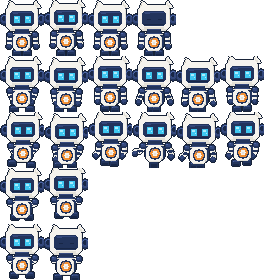
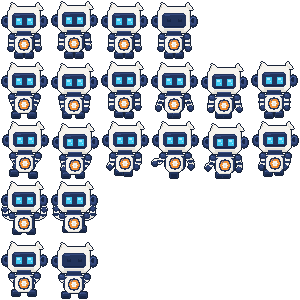
Corregir los errores del arte de los frames
Los frames salían con el dibujo recortado por el borde de la celda: los aros
de las orejas quedaban cortados a los lados y la suela de los pies por abajo
(el arte medía los 44x56 de la celda justos, sin sitio para el contorno).

Arte:

* celda de 50x60 con el dibujo compuesto en su espacio de 44x56 y colocado con
  2 px de margen, así el contorno tiene sitio y ninguna pose se sale;
* contorno de un solo píxel: el pie delantero y el brazo del perfil ya venían
  contorneados y el contorno global les añadía un segundo anillo;
* el pestañeo pinta un párpado oscuro visible (antes borraba el ojo dejando una
  línea del mismo azul que el visor, parecía un visor vacío, y el brillo del
  ojo se quedaba suelto);
* la vista de espaldas ya no recibe párpados: no tiene ojos;
* poses dentro del lienzo: el salto levanta los brazos doblados por fuera de la
  cabeza (antes se estiraban de lado y las manos salían del frame) y sólo
  separa el cuerpo 1 px, y correr/caer recogen los brazos;
* el perfil no aplasta el ángulo del brazo (escalarlo lo dejaba horizontal), lo
  limita manteniendo la dirección.

Herramientas y datos:

* tools/check-frames.mjs: valida las 60 poses (recortes, piezas sueltas,
  contorno incompleto o doble) y que el tamaño de celda coincida con
  js/robot-sheet.js;
* hojas, referencia, plantilla y js/robot-sheet.js regenerados a 50x60;
* el smoke test lee el tamaño de celda del generador en vez de fijarlo a mano;
[…]

Changed region(s): [[0.0, 0.0, 1.0, 1.0]]

diff --git a/js/robot-sheet.js b/js/robot-sheet.js
@@ -4,5 +4,5 @@
   if (typeof module === "object" && module.exports) module.exports = api;
   root.ROBOT_SHEET = api;
 })(typeof globalThis !== "undefined" ? globalThis : this, function () {
[2 lines of base64/hex data omitted]
 });

diff --git a/index.html b/index.html
@@ -116,8 +116,8 @@
         </label>
 
         <div class="grid2">
-          <label>Ancho de frame <input type="number" id="cfg-fw" value="16" min="4" max="256"></label>
-          <label>Alto de frame <input type="number" id="cfg-fh" value="24" min="4" max="256"></label>
+          <label>Ancho de frame <input type="number" id="cfg-fw" value="50" min="4" max="256"></label>
+          <label>Alto de frame <input type="number" id="cfg-fh" value="60" min="4" max="256"></label>
         </div>
         <div class="grid2">
           <label>Separación <input type="number" id="cfg-gap" value="0" min="0" max="8" step="1" title="Píxeles transparentes entre frames"></label>

diff --git a/README.md b/README.md
@@ -62,9 +62,32 @@ Cada animación existe en **las tres vistas y en los dos sentidos**:
 | `assets/plantilla-hoja-sprites.png` | plantilla vacía para dibujar tus propias hojas |
 
 Layout de cada hoja: **una fila por animación** (idle, walk, run, jump, fall),
-**una columna por frame**, celdas de 44×56 px, fondo transparente y el
+**una columna por frame**, celdas de 50×60 px, fondo transparente y el
 personaje apoyado abajo (ancla centro-abajo). El juego escala la altura del
 personaje a ~30 px en pantalla.
+
+### Reglas del arte (y cómo se comprueban)
+
+El dibujo se compone en un espacio de 44×56 y se coloca dentro de la celda con
+2 px de margen (`OX`/`OY` en `tools/robot.mjs`), de modo que el contorno oscuro
+tiene sitio y ningún frame sale cortado:
+
+- todas las poses caben en la celda, con el contorno completo alrededor
+- cada frame es **una sola pieza** (ningún puño, pie u oreja sueltos)
+- el contorno es de **un solo píxel**: las piezas que ya venían contorneadas
+  (el pie delantero y el brazo del perfil) no acumulan un segundo anillo
+- los brazos nunca se salen: en el salto suben doblados por fuera de la cabeza
+  en vez de estirarse de lado, y el perfil no aplasta el ángulo del brazo
+- el pestañeo pinta un párpado oscuro visible y la vista de espaldas —que no
+  tiene ojos— no recibe párpados fantasma
+
+```bash
+node tools/check-frames.mjs
+```
+
+revisa las 60 poses y falla si el arte se sale de la celda, si hay piezas
+sueltas, si el contorno queda incompleto o doble, o si el tamaño de celda no
+coincide con el que declara `js/robot-sheet.js`.
 
 ### Regenerar el arte
 
@@ -191,6 +214,7 @@ tools/fake-canvas.mjs      canvas simulado + arranque del juego en jsdom
 tools/smoke-test.mjs       21 comprobaciones automáticas (jsdom)
 tools/render-shot.mjs      "capturas" del juego sin navegador
 tools/motion-test.mjs      simulador de movimiento + informe y GIFs
+tools/check-frames.mjs     valida el arte de los frames (60 poses)
 tools/lab-test.mjs         comprobaciones del laboratorio (jsdom)
 ```
 
@@ -198,6 +222,7 @@ tools/lab-test.mjs         comprobaciones del laboratorio (jsdom)
 
 ```bash
 npm install jsdom          # única dependencia, solo para las pruebas
+node tools/check-frames.mjs # arte de los frames: recortes, piezas, contorno
 node tools/smoke-test.mjs  # 21 comprobaciones del juego y las hojas
 node tools/lab-test.mjs    # 16 comprobaciones del laboratorio de movimiento
 node tools/motion-test.mjs # simulador: informe, cobertura y GIFs en assets/
